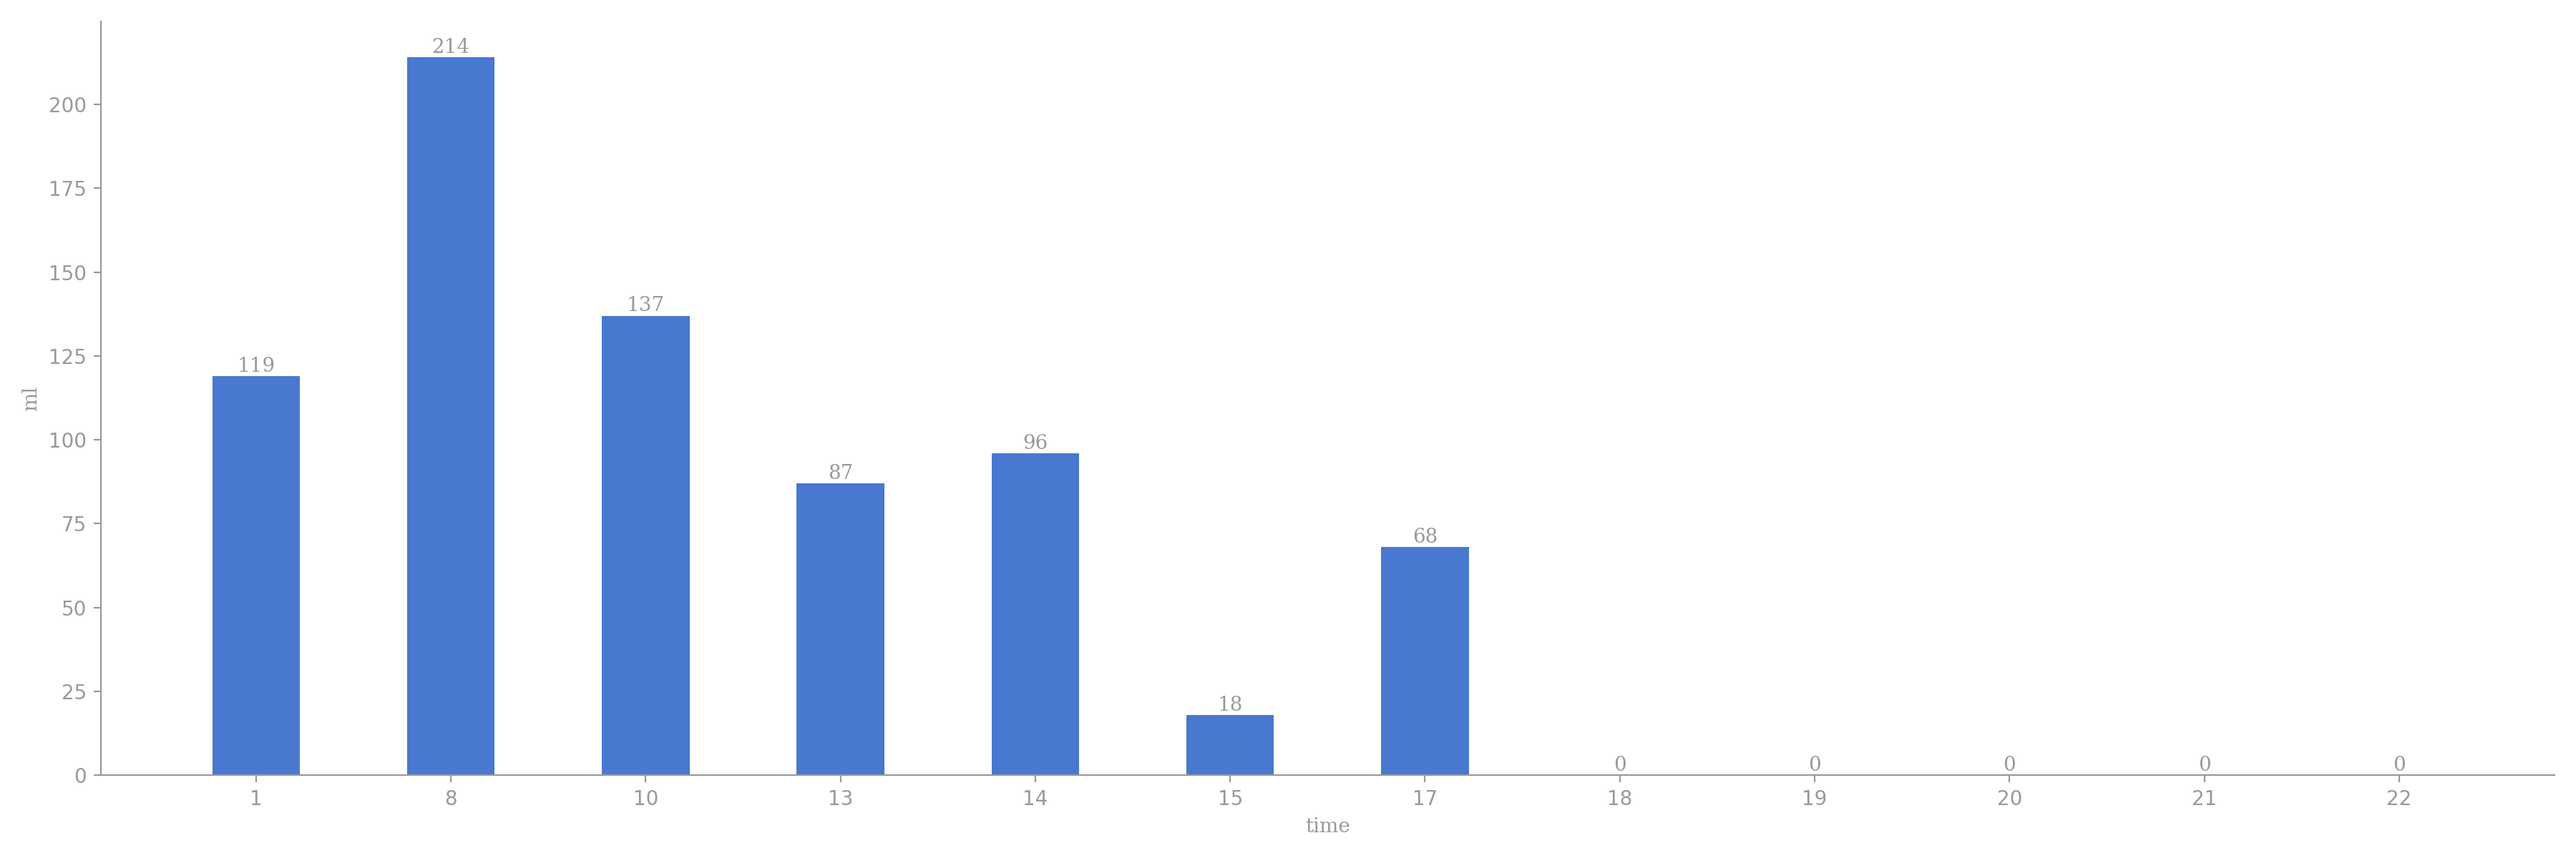
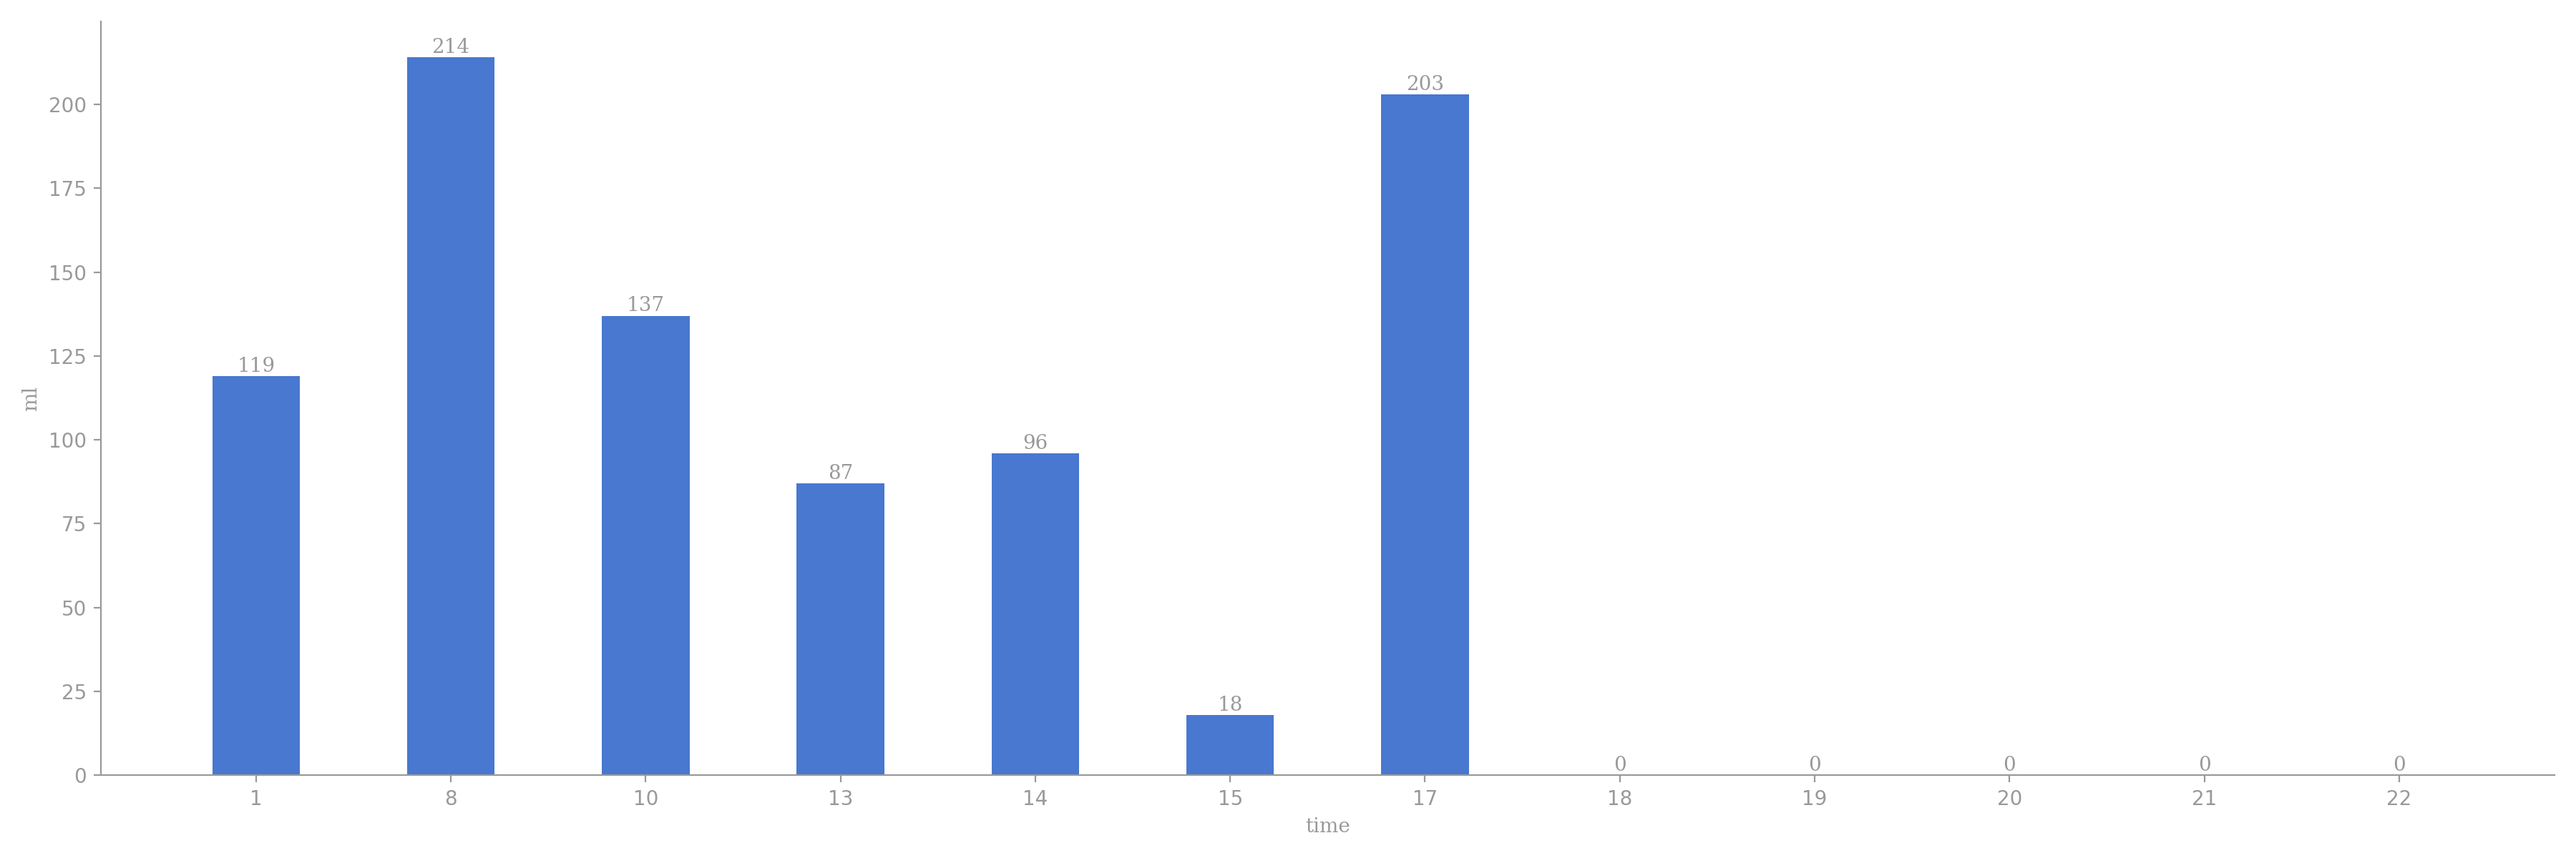
generated readme

Changed region(s): [[0.5289, 0.0925, 0.5911, 0.6475]]

diff --git a/README.md b/README.md
@@ -5,12 +5,12 @@
 
 | 今日总饮水量 | 每小时平均饮水量 |
 | :----: | :----: |
-| 739 | 105 |
+| 874 | 124 |
 </div>
 
-| 日期 | 01:27:09 | 08:02:47 | 08:44:17 | 10:27:13 | 13:05:04 | 14:16:55 | 15:52:28 | 17:01:10 |
-| :----: | :----: | :----: | :----: | :----: | :----: | :----: | :----: | :----: |
-| 2024-10-05 | 119 | 78 | 136 | 137 | 87 | 96 | 18 | 68 |
+| 日期 | 01:27:09 | 08:02:47 | 08:44:17 | 10:27:13 | 13:05:04 | 14:16:55 | 15:52:28 | 17:01:10 | 17:29:05 |
+| :----: | :----: | :----: | :----: | :----: | :----: | :----: | :----: | :----: | :----: |
+| 2024-10-05 | 119 | 78 | 136 | 137 | 87 | 96 | 18 | 68 | 135 |
 
 # 近30日饮水数据
 
